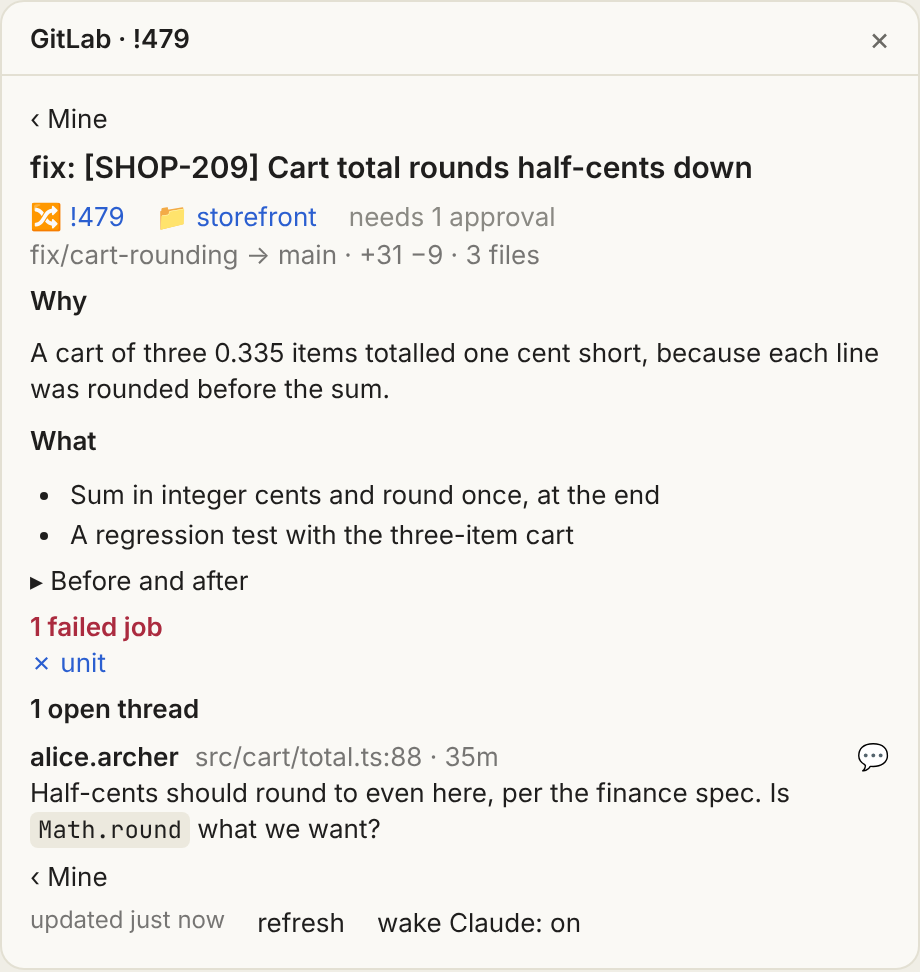
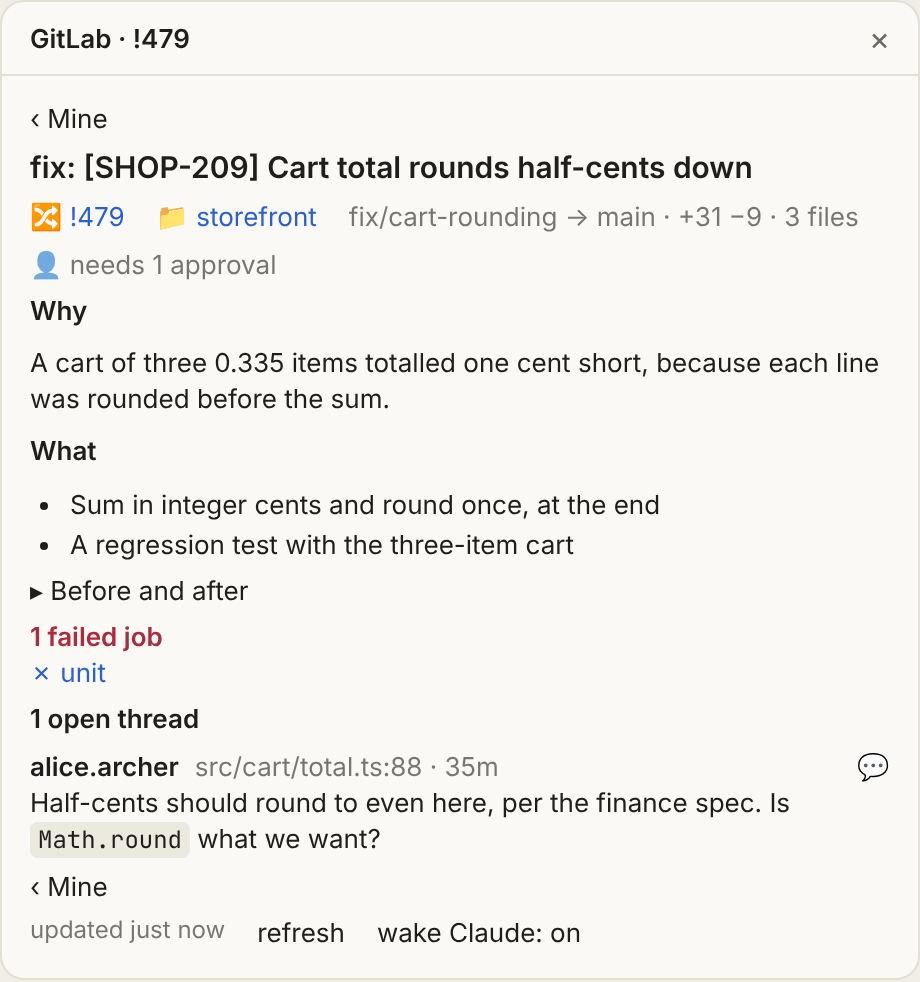
feat: the verdict counts the open threads, and an MR's page explains its verdict
GitLab's "discussions not resolved" reads as "2 open threads" on a card, counted as approvals already are. On an MR's
page, the verdict gives way to the line that explains it, so "needs 1 approval" says who can approve and a conflict
is said once; a verdict the page has no line for stays in its head.

Closes #11.

diff --git a/hooks/page-lines.ts b/hooks/page-lines.ts
@@ -21,7 +21,9 @@ export type PageContext = {
 export type PageHead = {
   /** The ticket and what Jira says of it, as one link; null while the title names none or no Jira site is set. */
   ticket: { text: string; href: string } | null
-  /** What stands before a merge that the page's own sections (failed jobs, threads) and GitLab's verdict leave unsaid; a manual job to start links to it. */
+  /** GitLab's verdict, unless a line of `standing` explains it, which then says it in its place. */
+  verdict: { words: string; tone: Tone; bold: boolean } | null
+  /** What stands before a merge that the page's own sections (failed jobs, threads) leave unsaid; a manual job to start links to it. */
   standing: { text: string; tone: Tone | undefined; href: string | null }[]
 }
 
@@ -35,13 +37,15 @@ function standingOf(card: MrCard, badge: Badge): string | null {
     case 'manual':
       return `Waiting on ${card.pipeline?.blockedOn.join(', ') ?? 'a manual job'}`
     case 'check':
-      return badge.words
+      // The page's open threads, listed below, say this check.
+      return badge.check === 'DISCUSSIONS_NOT_RESOLVED' ? null : badge.words
     case 'conflicts':
       return `Conflicts with ${card.branch.target}`
     case 'rebase':
       return `Needs a rebase onto ${card.branch.target}`
     case 'approvals':
-      return `Approvals ${badge.count}${card.approvers.length > 0 ? `: ${card.approvers.join(', ')}` : ''}`
+      // "needs 1 approval" or "approved", with who can approve.
+      return `${badge.words}${card.approvers.length > 0 ? `: ${card.approvers.join(', ')}` : ''}`
     case 'threads':
     case 'failed':
     case 'amber':
@@ -58,21 +62,28 @@ export function pageHead(card: MrCard, ctx: PageContext): PageHead {
   const jira = facts.ticket !== null ? ctx.tickets[facts.ticket] : undefined
   // Jira's tool is not installed here, so a ticket will not be filled in.
   const isJiraUnavailable = ctx.failures.jira?.kind === 'not-installed'
-  // GitLab's verdict, drawn in the page's head, already says the marker it is about.
-  const markers = facts.verdict !== null ? facts.trailing : facts.row
   const said =
     facts.ticket === null
       ? ''
       : jira !== undefined
         ? `${facts.ticket} · ${jira.type} · ${jira.status}: ${jira.summary}`
         : `${facts.ticket}: ${isJiraUnavailable ? 'Jira is not available here' : 'not read from Jira yet'}`
+  // Every marker the page has words for, the one GitLab's verdict is about too: the page says who can approve, which the
+  // verdict's "needs 1 approval" does not.
+  const explained = facts.row.flatMap(badge => {
+    const words = standingOf(card, badge)
+    return words !== null ? [{ badge, words }] : []
+  })
+  const { verdict } = facts
+  const isExplained = verdict !== null && explained.some(({ badge }) => badge.check !== undefined && badge.check === verdict.check)
   return {
     ticket: href !== null ? { text: `${LINK.jira} ${said}`, href } : null,
-    standing: markers.flatMap(badge => {
-      const words = standingOf(card, badge)
-      const tone = badge.tone === 'subtle' ? undefined : badge.tone
-      return words !== null ? [{ text: `${badge.glyph} ${words}`, tone, href: badge.kind === 'manual' ? manualJob(card) : null }] : []
-    }),
+    verdict: verdict !== null && !isExplained ? { words: verdict.words, tone: verdict.tone, bold: verdict.tone === 'success' } : null,
+    standing: explained.map(({ badge, words }) => ({
+      text: `${badge.glyph} ${words}`,
+      tone: badge.tone === 'subtle' ? undefined : badge.tone,
+      href: badge.kind === 'manual' ? manualJob(card) : null,
+    })),
   }
 }
 

diff --git a/tests/core/page-lines.spec.ts b/tests/core/page-lines.spec.ts
@@ -17,12 +17,25 @@ test('a ticket Jira cannot be read for says so on its page, instead of waiting f
   expect(pageHead(card, { ...JIRA, browse: '' }).ticket).toBeNull()
 })
 
-test("a page says what stands before a merge that GitLab's verdict leaves unsaid, and nothing it says itself", () => {
+test("a page explains GitLab's verdict, saying it once: who can approve when it needs an approval", () => {
+  const waiting = { ...toCard(HOST, rawMr(9)), approvers: ['Farhad', 'Max'], mergeStatus: gitlabSays({ NOT_APPROVED: 'failed' }) }
+  // "needs 1 approval" gives way to the line that says it with who can give it.
+  expect(pageHead(waiting, JIRA).verdict).toBeNull()
+  expect(pageHead(waiting, JIRA).standing).toEqual([{ text: '👤 needs 1 approval: Farhad, Max', tone: undefined, href: null }])
   const conflicted = { ...toCard(HOST, rawMr(8, { conflicts: true })), mergeStatus: gitlabSays({ CONFLICT: 'failed' }) }
-  // The verdict says the conflict, so the page's head does not say it again; only the approval it also waits on.
-  expect(pageHead(conflicted, JIRA).standing.map(line => line.text)).toEqual(['👤 Approvals 0/1'])
-  const waiting = toCard(HOST, rawMr(9))
-  expect(pageHead(waiting, JIRA).standing).toEqual([{ text: '👤 Approvals 0/1', tone: undefined, href: null }])
+  expect(pageHead(conflicted, JIRA).verdict).toBeNull()
+  expect(pageHead(conflicted, JIRA).standing.map(line => line.text)).toEqual(['✗ conflict', '👤 needs 1 approval'])
+  // A verdict the page has no line for stays in its head.
+  const mergeable = { ...toCard(HOST, rawMr(10, { approvalsLeft: 0 })), mergeStatus: gitlabSays() }
+  expect(pageHead(mergeable, JIRA).verdict).toEqual({ words: '✓ mergeable', tone: 'success', bold: true })
+  // Unresolved threads are said by the page's own list of them, not by a line in its head.
+  const threaded = { ...toCard(HOST, rawMr(11, { discussions: { nodes: [thread('Rename this.', 'bob')] } })), mergeStatus: gitlabSays({ DISCUSSIONS_NOT_RESOLVED: 'failed' }) }
+  expect(
+    pageHead(threaded, JIRA)
+      .standing.map(line => line.text)
+      .some(text => text.includes('thread'))
+  ).toBe(false)
+  expect(pageHead(threaded, JIRA).verdict?.words).toBe('1 open thread')
 })
 
 test('a manual job the pipeline waits on links to its page, where a person starts it', () => {

diff --git a/hooks/reading.tsx b/hooks/reading.tsx
@@ -3,7 +3,6 @@ import type { EngineInterface, RenderChildren, RenderInput } from 'claude-code'
 import { CHROME_SIZE, DRAWING_BUDGET, LINK, measure } from './drawing'
 import { ago, plural } from './format'
 import { shortHash } from './identity'
-import { verdictOf } from './attention'
 import { cutToFit, EMPTY_MARKDOWN, partsOf } from './markdown'
 import { showWhole, toggleFold } from './choices'
 import { personPage } from './page-lines'
@@ -72,7 +71,7 @@ export function drawReading($: EngineInterface, e: RenderInput<'Pane'>, mr: MrCa
     </Box>
   )
 
-  const verdict = verdictOf(mr)
+  const { verdict } = about
   const head = [
     <Text size="heading" weight="semibold">
       {mr.title}
@@ -81,7 +80,7 @@ export function drawReading($: EngineInterface, e: RenderInput<'Pane'>, mr: MrCa
       <Link href={mr.url}>{`${LINK.mr} !${mr.iid}`}</Link>
       <Link href={mr.repo.url}>{`${LINK.repo} ${mr.repo.name}`}</Link>
       {verdict !== null && (
-        <Text bold={verdict.tone === 'success'} color={verdict.tone}>
+        <Text bold={verdict.bold} color={verdict.tone}>
           {verdict.words}
         </Text>
       )}
@@ -94,7 +93,8 @@ export function drawReading($: EngineInterface, e: RenderInput<'Pane'>, mr: MrCa
       line.href !== null ? (
         <Link href={line.href}>{line.text}</Link>
       ) : (
-        <Text bold color={line.tone}>
+        // What waits on others is said quietly, as the verdict says it; what is yours to act on stands out in its tone.
+        <Text bold={line.tone !== undefined} dimColor={line.tone === undefined} color={line.tone}>
           {line.text}
         </Text>
       )

diff --git a/hooks/attention.ts b/hooks/attention.ts
@@ -92,8 +92,16 @@ const isKnownCheck = (id: string): id is MergeabilityCheckIdentifier => Object.h
 /** A failing check's tone; one GitLab adds after this was written blocks the merge, so it is red until it has a tone. */
 const failureTone = (id: string): Tone => (isKnownCheck(id) ? CHECK_TONE[id] : 'error')
 
-/** A check in words; the approvals one says how many, as the pane knows. */
-const wordsFor = (card: MrCard, id: string): string => (id === 'NOT_APPROVED' && card.approvalsLeft > 0 ? `needs ${plural(card.approvalsLeft, 'approval')}` : checkWords(id))
+/** A check in words; the approvals and the threads ones say how many, as the pane knows. */
+function wordsFor(card: MrCard, id: string): string {
+  if (id === 'NOT_APPROVED' && card.approvalsLeft > 0) {
+    return `needs ${plural(card.approvalsLeft, 'approval')}`
+  }
+  if (id === 'DISCUSSIONS_NOT_RESOLVED' && threadCount(card) > 0) {
+    return plural(threadCount(card), 'open thread')
+  }
+  return checkWords(id)
+}
 
 const checkBadge = (card: MrCard, check: MergeCheck): Badge => ({
   kind: 'check',

diff --git a/tests/core/attention.spec.ts b/tests/core/attention.spec.ts
@@ -69,6 +69,10 @@ test("GitLab's own merge checks give the verdict: its first failing check in wor
   expect(said(gitlabSays({ CONFLICT: 'failed' }))).toEqual(['conflict', 'error'])
   expect(said(gitlabSays({ NEED_REBASE: 'failed' }))).toEqual(['need rebase', 'warning'])
   expect(said(gitlabSays({ DISCUSSIONS_NOT_RESOLVED: 'failed' }))).toEqual(['discussions not resolved', 'warning'])
+  // Unresolved threads it has read, it counts, as it counts approvals.
+  const threads = { discussions: { nodes: [thread('Rename this.', 'bob'), thread('And this.', 'alice')] } }
+  const counted = verdictOf({ ...toCard(HOST, rawMr(1, threads)), mergeStatus: gitlabSays({ DISCUSSIONS_NOT_RESOLVED: 'failed' }) })
+  expect(counted?.words).toBe('2 open threads')
   expect(said(gitlabSays({ REQUESTED_CHANGES: 'failed' }))).toEqual(['requested changes', 'error'])
   expect(said(gitlabSays({ MERGE_TIME: 'failed' }))).toEqual(['merge time', 'subtle'])
   expect(said(gitlabSays({ SECURITY_POLICY_VIOLATIONS: 'failed' }))).toEqual(['security policy violations', 'error'])
